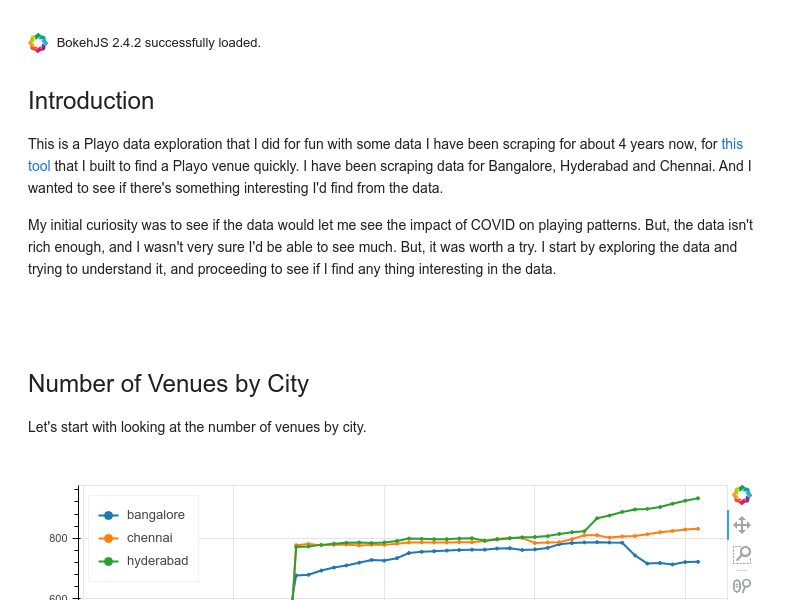
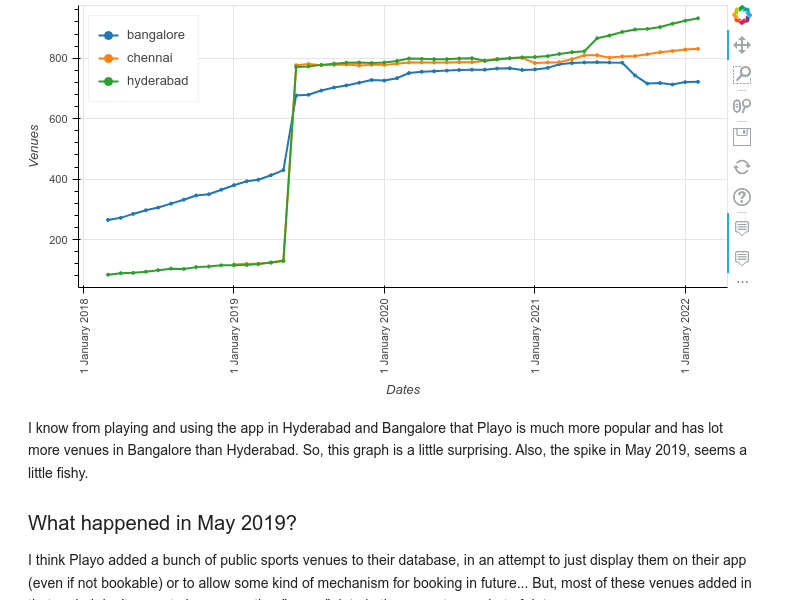
screenshot: Scroll the first "picture" into view

diff --git a/index.html b/index.html
@@ -54,12 +54,12 @@ footer {
       <div class="content">
         <h1 class="header">Data Visualization Projects</h1>
         <div class="projects">
-          <span><a href='playo/index.html'><img src='playo/screenshot.png' />Playo Data Exploration</a><div title='Mon, 14 Feb 2022 03:57:36 +0530'>3 days ago</div></span>
+          <span><a href='playo/index.html'><img src='playo/screenshot.png' />Playo Data Exploration</a><div title='Mon, 14 Feb 2022 03:57:36 +0530'>4 days ago</div></span>
 <span><a href='india-pm/index.html'><img src='india-pm/screenshot.png' />Prime Ministers of India</a><div title='Wed, 20 Sep 2017 12:14:04 +0530'>4 years, 5 months ago</div></span>
 <span><a href='blog/index.html'><img src='blog/screenshot.png' />Word clouds for my blog</a><div title='Mon, 11 Sep 2017 20:52:12 +0530'>4 years, 5 months ago</div></span>
-<span><a href='30-years-floods/index.html'><img src='30-years-floods/screenshot.png' />Floods in India</a><div title='Sun, 3 Sep 2017 18:54:12 +0530'>4 years, 5 months ago</div></span>
+<span><a href='30-years-floods/index.html'><img src='30-years-floods/screenshot.png' />Floods in India</a><div title='Sun, 3 Sep 2017 18:54:12 +0530'>4 years, 6 months ago</div></span>
         </div>
-        <footer>Last updated: Thursday 17 February 2022 02:36:53 AM IST</footer>
+        <footer>Last updated: Thursday 17 February 2022 11:37:16 PM IST</footer>
       </div>
     </body>
 </html>

diff --git a/scripts/screenshot.js b/scripts/screenshot.js
@@ -27,6 +27,15 @@ const screenshot = async (projectDir, serverPort) => {
   const page = await browser.newPage();
   await page.goto(url);
   await sleep(2000);
+  await page.evaluate(() => {
+    const e =
+      document.querySelector("canvas") ||
+      document.querySelector("svg") ||
+      document.querySelector("img");
+    if (e) {
+      e.scrollIntoView();
+    }
+  });
   await page.screenshot({ path: path.resolve(projectDir, "screenshot.png") });
   browser.close();
 };
